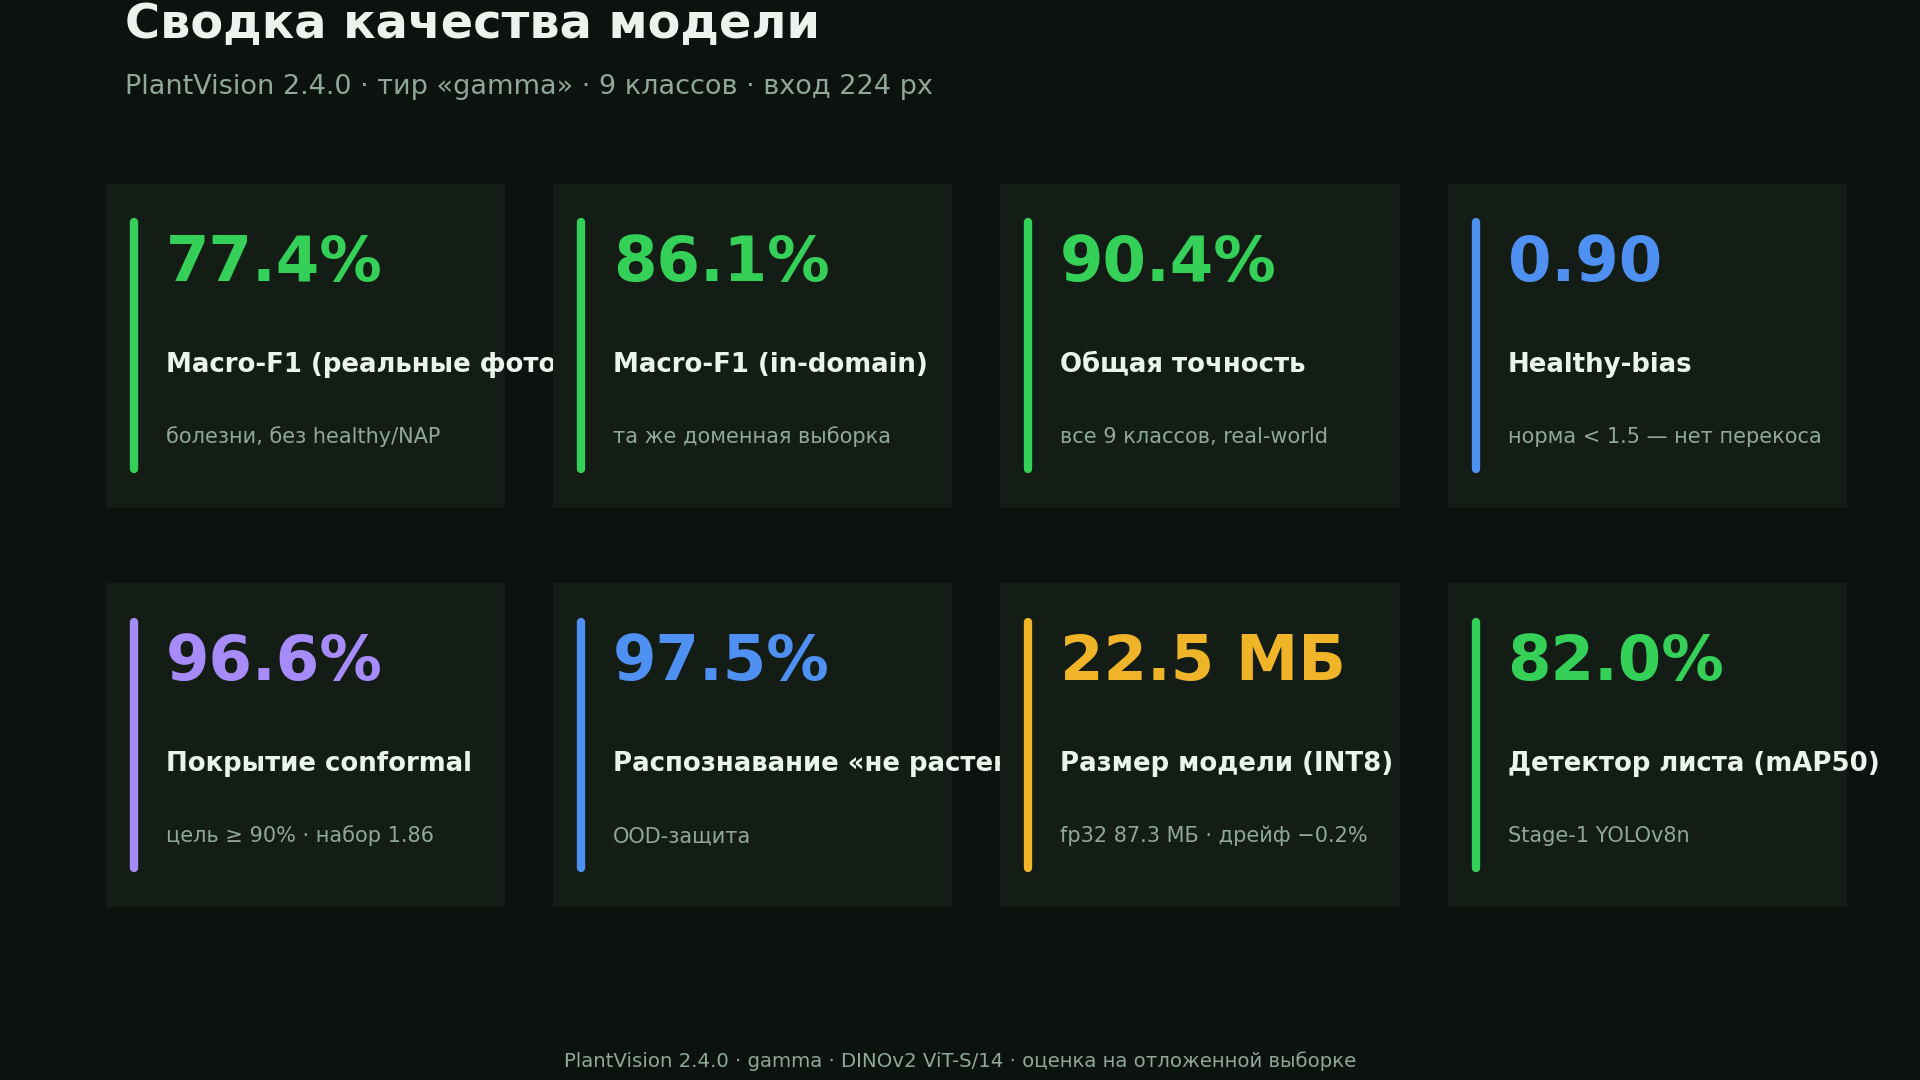
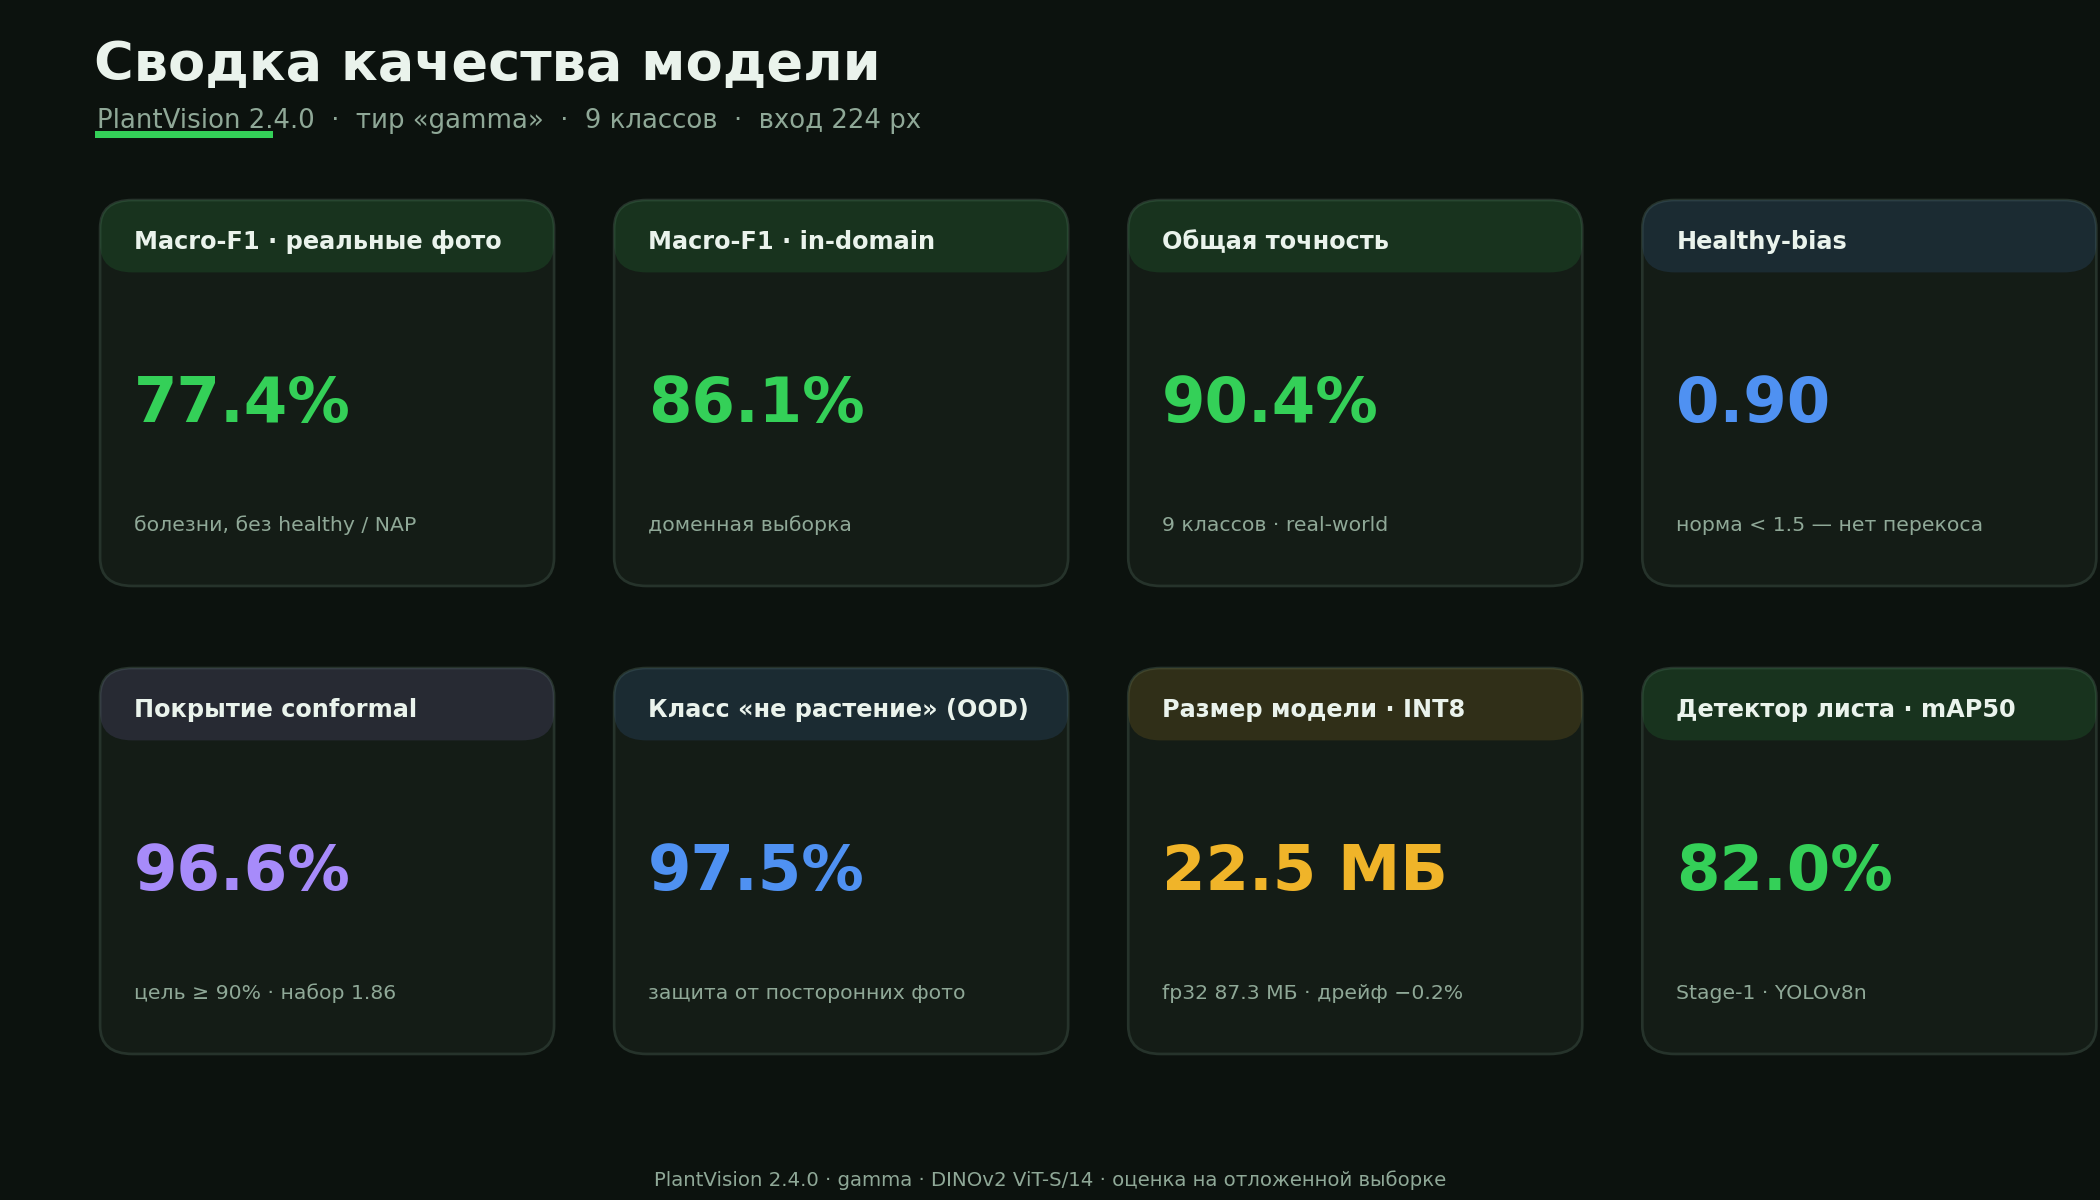
docs: prettier overview + families figures, fix text overflow
- Overview: header band + accent-strip cards, shorter labels that fit the
  card width, value+unit as one string (no more unit overlapping the number,
  e.g. "22.5 МБ").
- Families: wider 3-column layout, single-line values (no multi-line overflow
  past dividers), evenly-spaced rows, clearer measured/projected chips.

https://claude.ai/code/session_01GDRTHnJVdCyMZqnQRyrYSN

diff --git a/server/reports/make_report.py b/server/reports/make_report.py
@@ -76,31 +76,43 @@ def title(ax_or_fig, t, sub=None, y=0.965):
 # 00 — Scorecard
 # ════════════════════════════════════════════════════════════════════════
 def fig_overview():
-    fig = plt.figure(figsize=(12.8, 7.2))
-    title(fig, "Сводка качества модели", "PlantVision 2.4.0 · тир «gamma» · 9 классов · вход 224 px")
+    fig = plt.figure(figsize=(14.0, 8.0))
+    # header band
+    hb = fig.add_axes([0, 0.88, 1, 0.12]); hb.axis("off")
+    hb.text(0.045, 0.55, "Сводка качества модели", fontsize=26, fontweight="bold", color=FG,
+            transform=hb.transAxes, va="center")
+    hb.text(0.046, 0.16, "PlantVision 2.4.0  ·  тир «gamma»  ·  9 классов  ·  вход 224 px",
+            fontsize=12.5, color=MUT, transform=hb.transAxes, va="center")
+    hb.add_patch(plt.Rectangle((0.045, 0.04), 0.085, 0.05, transform=hb.transAxes, fc=GREEN))
+    # (label, value, unit, sub, accent)
     cards = [
-        ("Macro-F1 (реальные фото)", f"{rw['disease_macro_f1']*100:.1f}%", "болезни, без healthy/NAP", GREEN),
-        ("Macro-F1 (in-domain)", f"{idm['disease_macro_f1']*100:.1f}%", "та же доменная выборка", GREEN),
-        ("Общая точность", f"{acc_rw*100:.1f}%", "все 9 классов, real-world", GREEN),
+        ("Macro-F1 · реальные фото", f"{rw['disease_macro_f1']*100:.1f}%", "болезни, без healthy / NAP", GREEN),
+        ("Macro-F1 · in-domain", f"{idm['disease_macro_f1']*100:.1f}%", "доменная выборка", GREEN),
+        ("Общая точность", f"{acc_rw*100:.1f}%", "9 классов · real-world", GREEN),
         ("Healthy-bias", f"{rw['healthy_bias']:.2f}", "норма < 1.5 — нет перекоса", BLUE),
         ("Покрытие conformal", f"{cf['empirical_coverage']*100:.1f}%", f"цель ≥ {cf['target_coverage']*100:.0f}% · набор {cf['mean_set_size']:.2f}", VIOLET),
-        ("Распознавание «не растение»", f"{Rr['not_a_plant']*100:.1f}%", "OOD-защита", BLUE),
-        ("Размер модели (INT8)", "22.5 МБ", "fp32 87.3 МБ · дрейф −0.2%", AMBER),
-        ("Детектор листа (mAP50)", "82.0%", "Stage-1 YOLOv8n", GREEN),
+        ("Класс «не растение» (OOD)", f"{Rr['not_a_plant']*100:.1f}%", "защита от посторонних фото", BLUE),
+        ("Размер модели · INT8", "22.5 МБ", "fp32 87.3 МБ · дрейф −0.2%", AMBER),
+        ("Детектор листа · mAP50", "82.0%", "Stage-1 · YOLOv8n", GREEN),
     ]
     nx, ny = 4, 2
-    x0, y0, w, h, gx, gy = 0.055, 0.16, 0.208, 0.30, 0.025, 0.07
+    x0, y0, w, h, gx, gy = 0.045, 0.115, 0.2215, 0.335, 0.0233, 0.055
     for i, (lab, val, sub, col) in enumerate(cards):
         cx = x0 + (i % nx) * (w + gx)
         cy = y0 + (ny - 1 - i // nx) * (h + gy)
         ax = fig.add_axes([cx, cy, w, h]); ax.axis("off")
-        ax.add_patch(FancyBboxPatch((0, 0), 1, 1, boxstyle="round,pad=0.02,rounding_size=0.06",
-                                    transform=ax.transAxes, fc=CARD, ec=GRID, lw=1.2))
-        ax.plot([0.07, 0.07], [0.12, 0.88], color=col, lw=4, transform=ax.transAxes,
-                solid_capstyle="round")
-        ax.text(0.15, 0.70, val, fontsize=30, fontweight="bold", color=col, transform=ax.transAxes)
-        ax.text(0.15, 0.42, lab, fontsize=12.5, color=FG, transform=ax.transAxes, fontweight="bold")
-        ax.text(0.15, 0.20, sub, fontsize=10, color=MUT, transform=ax.transAxes)
+        ax.add_patch(FancyBboxPatch((0.012, 0.02), 0.976, 0.96,
+                                    boxstyle="round,pad=0,rounding_size=0.07",
+                                    transform=ax.transAxes, fc=CARD, ec=GRID, lw=1.3))
+        # faint accent header strip
+        ax.add_patch(FancyBboxPatch((0.012, 0.80), 0.976, 0.18,
+                                    boxstyle="round,pad=0,rounding_size=0.07",
+                                    transform=ax.transAxes, fc=col, ec="none", alpha=0.13))
+        ax.text(0.085, 0.875, lab, fontsize=11.5, color=FG, transform=ax.transAxes,
+                fontweight="bold", va="center")
+        ax.text(0.085, 0.47, val, fontsize=30, fontweight="bold", color=col,
+                transform=ax.transAxes, va="center")
+        ax.text(0.085, 0.17, sub, fontsize=9.8, color=MUT, transform=ax.transAxes, va="center")
     footer(fig)
     fig.savefig(OUT / "00_overview.png", dpi=150); plt.close(fig)
 
@@ -246,58 +258,78 @@ def fig_dataset():
 # 06 — Model families (3 columns): Aqua / Gamma / Frontier
 # ════════════════════════════════════════════════════════════════════════
 def fig_families():
-    fig = plt.figure(figsize=(13.6, 8.4))
-    title(fig, "Семейства моделей PlantVision", "Gamma — измерено. Aqua и Frontier — ПРОЕКЦИЯ (один рецепт обучения, разный бэкбон)", y=0.965)
+    fig = plt.figure(figsize=(14.4, 8.6))
+    hb = fig.add_axes([0, 0.88, 1, 0.12]); hb.axis("off")
+    hb.text(0.038, 0.55, "Семейства моделей PlantVision", fontsize=25, fontweight="bold",
+            color=FG, transform=hb.transAxes, va="center")
+    hb.text(0.039, 0.14, "Один рецепт обучения, разный бэкбон  ·  Gamma — измерено, Aqua и Frontier — проекция",
+            fontsize=12, color=MUT, transform=hb.transAxes, va="center")
+    hb.add_patch(plt.Rectangle((0.038, 0.03), 0.075, 0.05, transform=hb.transAxes, fc=GREEN))
+    # (label, value) rows — single-line values to avoid any overflow
     cols = [
         ("AQUA", "на устройстве · офлайн", BLUE, False, [
-            ("Бэкбон", "MobileNetV3-S\n(дистилляция)"),
-            ("Macro-F1 реальные", "≈ 70%"),
-            ("Macro-F1 in-domain", "≈ 79%"),
+            ("Бэкбон", "MobileNetV3-S"),
+            ("Дистилляция", "из Gamma"),
+            ("Macro-F1 · реальные", "≈ 70 %"),
+            ("Macro-F1 · in-domain", "≈ 79 %"),
             ("Размер (INT8)", "≈ 6 МБ"),
-            ("Задержка", "≈ 40 мс / CPU тел."),
-            ("Среда", "Android, офлайн"),
+            ("Задержка", "≈ 40 мс · CPU"),
+            ("Среда", "Android · офлайн"),
         ]),
         ("GAMMA", "текущий прод · баланс", GREEN, True, [
-            ("Бэкбон", "DINOv2 ViT-S/14\n(заморожен)+LoRA"),
-            ("Macro-F1 реальные", f"{rw['disease_macro_f1']*100:.1f}%"),
-            ("Macro-F1 in-domain", f"{idm['disease_macro_f1']*100:.1f}%"),
+            ("Бэкбон", "DINOv2 ViT-S/14"),
+            ("Адаптация", "заморожен + LoRA"),
+            ("Macro-F1 · реальные", f"{rw['disease_macro_f1']*100:.1f} %"),
+            ("Macro-F1 · in-domain", f"{idm['disease_macro_f1']*100:.1f} %"),
             ("Размер (INT8)", "22.5 МБ"),
-            ("Задержка", "≈ 8 мс / GPU"),
-            ("Среда", "сервер (CPU/GPU)"),
+            ("Задержка", "≈ 8 мс · GPU"),
+            ("Среда", "сервер CPU/GPU"),
         ]),
-        ("FRONTIER", "высокая ёмкость · проекция", VIOLET, False, [
-            ("Бэкбон", "DINOv2 ViT-B/14\n(~86M, заморожен)"),
-            ("Macro-F1 реальные", "≈ 83%"),
-            ("Macro-F1 in-domain", "≈ 90%"),
+        ("FRONTIER", "высокая ёмкость", VIOLET, False, [
+            ("Бэкбон", "DINOv2 ViT-B/14"),
+            ("Параметры", "≈ 86M · заморожен"),
+            ("Macro-F1 · реальные", "≈ 83 %"),
+            ("Macro-F1 · in-domain", "≈ 90 %"),
             ("Размер (INT8)", "≈ 90 МБ"),
-            ("Задержка", "≈ 20 мс / GPU"),
+            ("Задержка", "≈ 20 мс · GPU"),
             ("Среда", "сервер GPU (выкл.)"),
         ]),
     ]
-    cw, gap = 0.275, 0.045
+    cw, gap = 0.285, 0.038
     x0 = (1 - (3 * cw + 2 * gap)) / 2
+    top, bot = 0.835, 0.135           # card vertical extent
     for i, (name, role, col, primary, rows) in enumerate(cols):
         cx = x0 + i * (cw + gap)
-        ax = fig.add_axes([cx, 0.10, cw, 0.78]); ax.axis("off")
+        ax = fig.add_axes([cx, bot, cw, top - bot + 0.0]); ax.axis("off")
         fc = CARD2 if primary else CARD
-        ax.add_patch(FancyBboxPatch((0, 0), 1, 1, boxstyle="round,pad=0.02,rounding_size=0.04",
+        ax.add_patch(FancyBboxPatch((0.01, 0.01), 0.98, 0.98,
+                                    boxstyle="round,pad=0,rounding_size=0.035",
                                     transform=ax.transAxes, fc=fc, ec=(col if primary else GRID),
-                                    lw=(2.6 if primary else 1.2)))
-        ax.add_patch(plt.Rectangle((0.0, 0.92), 1.0, 0.08, transform=ax.transAxes, fc=col, alpha=0.16))
-        ax.text(0.5, 0.945, name, ha="center", fontsize=21, fontweight="bold", color=col, transform=ax.transAxes)
-        ax.text(0.5, 0.905, role, ha="center", fontsize=10.5, color=MUT, transform=ax.transAxes)
-        tag = "ИЗМЕРЕНО" if primary else "ПРОЕКЦИЯ"
-        ax.text(0.5, 0.86, tag, ha="center", fontsize=9, color=(GREEN if primary else AMBER),
-                fontweight="bold", transform=ax.transAxes)
+                                    lw=(2.8 if primary else 1.3)))
+        # header chip
+        ax.add_patch(FancyBboxPatch((0.01, 0.845), 0.98, 0.145,
+                                    boxstyle="round,pad=0,rounding_size=0.035",
+                                    transform=ax.transAxes, fc=col, ec="none", alpha=0.16))
+        ax.text(0.5, 0.945, name, ha="center", fontsize=20, fontweight="bold", color=col,
+                transform=ax.transAxes, va="center")
+        tag = "● ИЗМЕРЕНО" if primary else "○ ПРОЕКЦИЯ"
+        ax.text(0.5, 0.882, f"{role}   ·   {tag}", ha="center", fontsize=9.2,
+                color=(GREEN if primary else AMBER), transform=ax.transAxes, va="center")
+        n = len(rows); y_hi, y_lo = 0.80, 0.06
+        pitch = (y_hi - y_lo) / n
         for j, (k, v) in enumerate(rows):
-            yy = 0.78 - j * 0.125
-            ax.text(0.08, yy, k, color=MUT, fontsize=10.5, transform=ax.transAxes)
-            ax.text(0.92, yy, v, color=FG, fontsize=12.5, fontweight="bold", ha="right",
-                    va="top", transform=ax.transAxes, linespacing=0.95)
-            ax.plot([0.08, 0.92], [yy - 0.045, yy - 0.045], color=GRID, lw=0.7, transform=ax.transAxes)
-    fig.text(0.5, 0.03, "Проекции Aqua/Frontier — ожидания на основе типичного разрыва дистилляции (ViT-S→Mobile, −5…7 п.п.)\n"
-                        "и прироста ёмкости (ViT-S→ViT-B, +4…6 п.п.); подтверждаются только обучением соответствующего тира.",
-             ha="center", color=MUT, fontsize=9.2)
+            yc = y_hi - (j + 0.5) * pitch          # row centre
+            ax.text(0.075, yc, k, color=MUT, fontsize=10.5, transform=ax.transAxes, va="center")
+            ax.text(0.925, yc, v, color=FG, fontsize=12, fontweight="bold", ha="right",
+                    transform=ax.transAxes, va="center")
+            if j < n - 1:
+                ax.plot([0.075, 0.925], [y_hi - (j + 1) * pitch] * 2, color=GRID, lw=0.7,
+                        transform=ax.transAxes)
+    fig.text(0.5, 0.045, "Проекции Aqua / Frontier — ожидания по типичному разрыву дистилляции (ViT-S→Mobile, −5…7 п.п.) "
+                         "и приросту ёмкости (ViT-S→ViT-B, +4…6 п.п.).",
+             ha="center", color=MUT, fontsize=9.4)
+    fig.text(0.5, 0.022, "Точные значения подтверждаются только обучением соответствующего тира.",
+             ha="center", color=MUT, fontsize=9.4)
     fig.savefig(OUT / "06_families.png", dpi=150); plt.close(fig)
 
 # ════════════════════════════════════════════════════════════════════════
